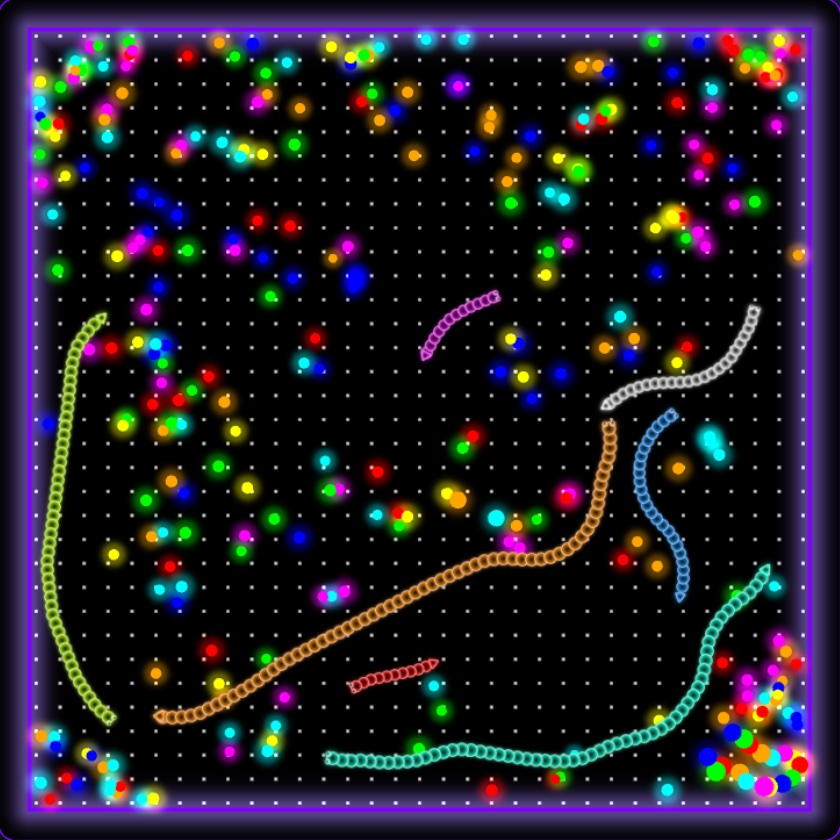
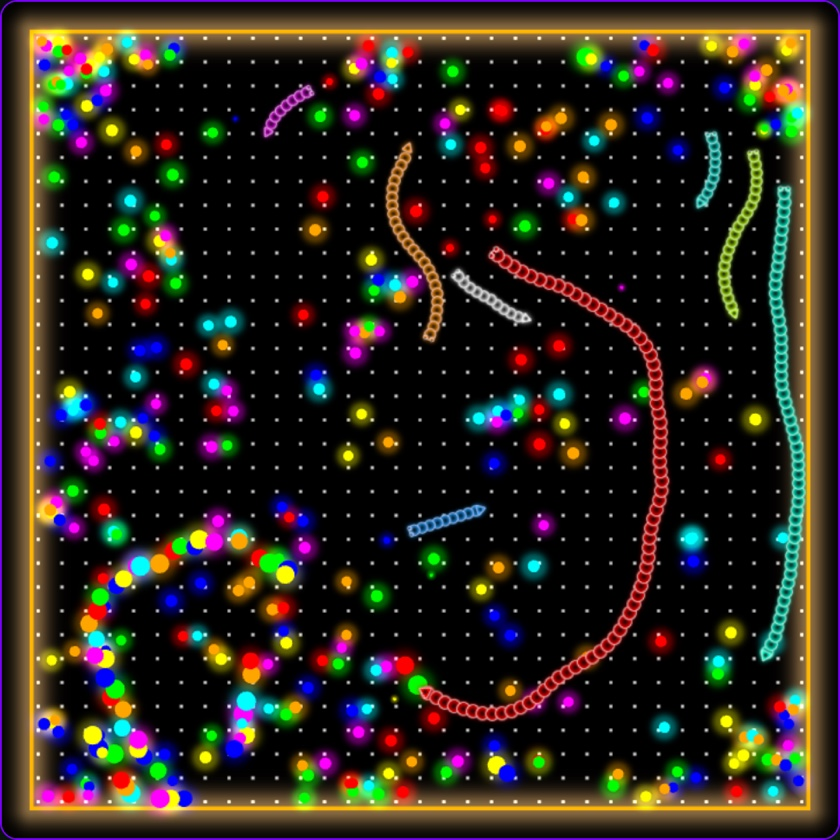
Site: post-release pass, npm/GitHub links, SEO, fresh og image (#31) (#97)
* Post-release: npm and GitHub links, SEO, fresh og image, accurate CLI/README text (#31)

- Landing: GitHub card is a link; npm link in the quick start and footer (NPM_URL in site.ts).
- og.jpg / og/arena.jpg regenerated from the live hero (current square arena renderer).
- Legal and replay pages get descriptions and canonical URLs; legal pages in sitemap.xml,
  checked by sitemap.test.ts; JSON-LD (WebSite + VideoGame) on the landing page.
- README: badges, arena image, npm link. CONTRIBUTING: cli is the only package on npm.
- packages/cli/README.md (npm page): badges, first deploy needs no --create, post-release wording.
- template/MAINTAINING.md: publishing section matches what init does now.
- Launch checklist and kit: tick verified steps, note what is still open.

* Launch checklist: repository settings from step 3 are done (#31)

* Launch checklist: Dependabot, secret scanning and squash-only are on (#31)

* Launch checklist: npm environment, tag ruleset and trusted publishing set up (#31)

* Review: "Working from a checkout" heading, untick npm trusted-publisher boxes, reflow (#31)

- docs/getting-started.md: the pre-launch heading becomes "Working from a checkout"; anchor
  updated in README, the landing page and its tests.
- checklist: Trusted Publisher and Publishing access stay unticked until cli-v0.1.1 confirms them.
- template/MAINTAINING.md: it is already skipped by init; packages/cli/README.md reflowed.

---------

diff --git a/apps/web/src/components/landing/Landing.tsx b/apps/web/src/components/landing/Landing.tsx
@@ -1,5 +1,5 @@
 import { Link } from "@tanstack/react-router";
-import { CLI_PUBLISHED, REPO } from "../../site";
+import { CLI_PUBLISHED, NPM_URL, REPO } from "../../site";
 import { GithubLink } from "../GithubLink";
 import { ArenaHero } from "./ArenaHero";
 import { ClaudePromptBlock, CopyButton, CopyPromptButton } from "./ClaudeStart";
@@ -90,7 +90,8 @@ export function Landing({ signedIn, onSignIn }: { signedIn: boolean; onSignIn: (
       <section className="landing-hero">
         <div className="landing-head">
           <p className="eyebrow">
-            Programming game · JS/TS · {REPO.public ? "open source, MIT" : "open source soon"}
+            Programming game · JS/TS ·{" "}
+            <span className="nowrap">{REPO.public ? "open source, MIT" : "open source soon"}</span>
           </p>
           <h1 className="title landing-title">
             Your snake bot vs. <span className="accent">everyone else's.</span>
@@ -108,7 +109,7 @@ export function Landing({ signedIn, onSignIn }: { signedIn: boolean; onSignIn: (
                 <Link
                   to="/docs/$slug"
                   params={{ slug: "getting-started" }}
-                  hash="before-the-packages-are-published"
+                  hash="working-from-a-checkout"
                   className="button ghost"
                 >
                   Build it by hand
@@ -139,7 +140,7 @@ export function Landing({ signedIn, onSignIn }: { signedIn: boolean; onSignIn: (
                   <Link
                     to="/docs/$slug"
                     params={{ slug: "getting-started" }}
-                    hash="before-the-packages-are-published"
+                    hash="working-from-a-checkout"
                   >
                     build the CLI from a checkout
                   </Link>{" "}
@@ -276,10 +277,16 @@ export function Landing({ signedIn, onSignIn }: { signedIn: boolean; onSignIn: (
           </div>
         ))}
         <p className="muted small">
-          Free. Needs Node.js 24+. Everything up to <code>test</code> runs on your machine with no
-          account; GitHub sign-in is only for <code>login</code> and <code>deploy</code>. The
-          starter bot already beats <code>easy</code>, the bar for entering the arena: your job is
-          to beat the rest.{" "}
+          Free. Needs Node.js 24+
+          {CLI_PUBLISHED && (
+            <>
+              {" "}
+              (the CLI is <a href={NPM_URL}>zerosnake on npm</a>)
+            </>
+          )}
+          . Everything up to <code>test</code> runs on your machine with no account; GitHub sign-in
+          is only for <code>login</code> and <code>deploy</code>. The starter bot already beats{" "}
+          <code>easy</code>, the bar for entering the arena: your job is to beat the rest.{" "}
           <Link to="/docs/$slug" params={{ slug: "getting-started" }}>
             Getting started
           </Link>{" "}
@@ -300,7 +307,7 @@ export function Landing({ signedIn, onSignIn }: { signedIn: boolean; onSignIn: (
                 <Link
                   to="/docs/$slug"
                   params={{ slug: "getting-started" }}
-                  hash="before-the-packages-are-published"
+                  hash="working-from-a-checkout"
                 >
                   Running the CLI from a checkout
                 </Link>
@@ -330,16 +337,24 @@ export function Landing({ signedIn, onSignIn }: { signedIn: boolean; onSignIn: (
             </Link>
           </li>
           <li>
-            <div className="panel link-card">
-              <strong>
-                <GithubLink />
-              </strong>
-              <span className="muted">
-                {REPO.public
-                  ? "Engine, sandbox, CLI, house bots and this site. MIT licensed."
-                  : "Engine, sandbox, CLI, house bots and this site. Open source at launch."}
-              </span>
-            </div>
+            {REPO.public ? (
+              <a href={REPO.url} className="panel link-card" rel="noreferrer">
+                <strong>GitHub</strong>
+                <span className="muted">
+                  Engine, sandbox, CLI, house bots and this site. MIT licensed: issues and pull
+                  requests welcome.
+                </span>
+              </a>
+            ) : (
+              <div className="panel link-card">
+                <strong>
+                  <GithubLink />
+                </strong>
+                <span className="muted">
+                  Engine, sandbox, CLI, house bots and this site. Open source at launch.
+                </span>
+              </div>
+            )}
           </li>
           <li>
             {signedIn ? (

diff --git a/apps/web/src/lib/meta.ts b/apps/web/src/lib/meta.ts
@@ -1,4 +1,6 @@
-import { SITE_URL } from "../site";
+import type { ComponentProps } from "react";
+import { LEGAL } from "../legal";
+import { CLI_PUBLISHED, NPM_URL, REPO, SITE_URL } from "../site";
 
 const SITE_NAME = "ZeroSnake Arena";
 
@@ -57,4 +59,38 @@ export function pageMeta(title: string, description?: string): Meta[] {
         ]
       : []),
   ];
+}
+
+/**
+ * The landing page's structured data (schema.org JSON-LD): the site and the game, free, made by
+ * the operator, with the repository and the npm package as its other homes once they are public.
+ * TanStack renders a `script:ld+json` meta entry as an escaped `<script type="application/ld+json">`,
+ * but the route `head` type only lists `<meta>` attributes, hence the cast.
+ */
+export function structuredData(): ComponentProps<"meta"> {
+  const sameAs = [...(REPO.public ? [REPO.url] : []), ...(CLI_PUBLISHED ? [NPM_URL] : [])];
+  const ld = {
+    "script:ld+json": {
+      "@context": "https://schema.org",
+      "@graph": [
+        { "@type": "WebSite", name: SITE_NAME, url: `${SITE_URL}/`, description: DESCRIPTION },
+        {
+          "@type": "VideoGame",
+          name: SITE_NAME,
+          url: `${SITE_URL}/`,
+          description: DESCRIPTION,
+          image: `${SITE_URL}/og.jpg`,
+          genre: "Programming game",
+          gamePlatform: "Web browser",
+          applicationCategory: "GameApplication",
+          operatingSystem: "Any",
+          isAccessibleForFree: true,
+          offers: { "@type": "Offer", price: "0", priceCurrency: "USD" },
+          publisher: { "@type": "Organization", name: LEGAL.operator, email: LEGAL.email },
+          ...(sameAs.length > 0 && { sameAs }),
+        },
+      ],
+    },
+  };
+  return ld as ComponentProps<"meta">;
 }

diff --git a/apps/web/src/sitemap.test.ts b/apps/web/src/sitemap.test.ts
@@ -1,0 +1,40 @@
+/**
+ * Keeps `public/sitemap.xml` in step with the site: every page with a fixed canonical URL and
+ * every doc page is listed, and nothing else is.
+ */
+import { readdirSync, readFileSync } from "node:fs";
+import { join } from "node:path";
+import { describe, expect, it } from "vitest";
+import { SITE_URL } from "./site";
+
+const SRC = import.meta.dirname;
+const sitemap = readFileSync(join(SRC, "../public/sitemap.xml"), "utf8");
+const listed = [...sitemap.matchAll(/<loc>([^<]+)<\/loc>/g)].map((m) => m[1] as string);
+
+/** Paths the routes declare with `canonical("/…")`, a literal: the public pages with no params. */
+function canonicalPaths(): string[] {
+  const routes = join(SRC, "routes");
+  return readdirSync(routes)
+    .filter((name) => name.endsWith(".tsx"))
+    .flatMap((name) => [
+      ...readFileSync(join(routes, name), "utf8").matchAll(/canonical\("(\/[^"]*)"\)/g),
+    ])
+    .map((m) => m[1] as string);
+}
+
+/** The doc pages, `/docs/<slug>` for each page in `docs/` but its index. */
+function docPaths(): string[] {
+  return readdirSync(join(SRC, "../../../docs"))
+    .filter((name) => name.endsWith(".md") && name !== "README.md")
+    .map((name) => `/docs/${name.slice(0, -3)}`);
+}
+
+describe("sitemap.xml", () => {
+  it("lists every public page and doc page, once, at the site's origin", () => {
+    const expected = [...new Set([...canonicalPaths(), ...docPaths()])].map(
+      (path) => new URL(path, SITE_URL).href,
+    );
+    expect(expected).toEqual(expect.arrayContaining([`${SITE_URL}/terms`, `${SITE_URL}/privacy`]));
+    expect([...listed].sort()).toEqual(expected.sort());
+  });
+});

diff --git a/apps/web/src/routes/replay.$id.tsx b/apps/web/src/routes/replay.$id.tsx
@@ -4,6 +4,7 @@ import { DEATH_CAUSES, formatDateTime, formatTicks } from "../components/format"
 import { Empty, PageError, PagePending } from "../components/PageState";
 import { ReplayViewer } from "../components/ReplayViewer";
 import { TracePanel } from "../components/TracePanel";
+import { canonical, pageMeta } from "../lib/meta";
 import { getReplayPage } from "../server/pages";
 import { getReplayTrace, type ReplayTrace } from "../server/traces";
 import { REPLAY_EXPIRED_MESSAGE } from "../shared/replay";
@@ -15,15 +16,21 @@ export const Route = createFileRoute("/replay/$id")({
     if (!life) throw notFound();
     return life;
   },
-  head: ({ loaderData }) => ({
-    meta: [
-      {
-        title: loaderData
-          ? `Replay: ${loaderData.botName} v${loaderData.version} by @${loaderData.author} · ZeroSnake Arena`
-          : "Replay · ZeroSnake Arena",
-      },
-    ],
-  }),
+  head: ({ loaderData, params }) => {
+    const { meta, links } = canonical(`/replay/${params.id}`);
+    return {
+      meta: [
+        ...(loaderData
+          ? pageMeta(
+              `Replay: ${loaderData.botName} v${loaderData.version} by @${loaderData.author}`,
+              `Watch ${loaderData.botName}, a snake bot by @${loaderData.author}, play one life in ZeroSnake Arena.`,
+            )
+          : pageMeta("Replay")),
+        ...meta,
+      ],
+      links,
+    };
+  },
   component: ReplayPage,
   pendingComponent: PagePending,
   errorComponent: PageError,

diff --git a/apps/web/src/components/landing/landing.test.tsx b/apps/web/src/components/landing/landing.test.tsx
@@ -83,7 +83,7 @@ describe("landing page", () => {
         claudePromptWorks()
           ? CLI_PUBLISHED
             ? "#by-hand"
-            : "/docs/getting-started#before-the-packages-are-published"
+            : "/docs/getting-started#working-from-a-checkout"
           : "#start",
       ]),
     );
@@ -162,9 +162,7 @@ describe.each([
     const html = await render();
     const links = hrefs(html);
     expect(links.some((href) => href.startsWith(REPO.url))).toBe(repo);
-    expect(links.includes("/docs/getting-started#before-the-packages-are-published")).toBe(
-      repo && !cli,
-    );
+    expect(links.includes("/docs/getting-started#working-from-a-checkout")).toBe(repo && !cli);
     expect(html.includes("Running the CLI from a checkout")).toBe(repo && !cli);
     expect(html.includes("from a checkout of the repository")).toBe(repo && !cli);
   });

diff --git a/apps/web/src/routes/__root.tsx b/apps/web/src/routes/__root.tsx
@@ -16,7 +16,7 @@ import { signInWithGithub } from "../lib/auth-client";
 import { siteMeta } from "../lib/meta";
 import { getViewer } from "../server/functions";
 import { getSiteConfig } from "../server/site-config";
-import { REPO } from "../site";
+import { CLI_PUBLISHED, NPM_URL, REPO } from "../site";
 import appCss from "../styles/app.css?url";
 
 export const Route = createRootRoute({
@@ -100,6 +100,7 @@ function RootLayout() {
             <Link to="/leaderboard">Leaderboard</Link>
             <Link to="/docs">Docs</Link>
             <GithubLink />
+            {CLI_PUBLISHED && <a href={NPM_URL}>npm</a>}
             <Link to="/terms">Terms</Link>
             <Link to="/acceptable-use">Acceptable Use</Link>
             <Link to="/privacy">Privacy</Link>

diff --git a/apps/web/src/routes/privacy.tsx b/apps/web/src/routes/privacy.tsx
@@ -1,10 +1,20 @@
 import { createFileRoute, Link } from "@tanstack/react-router";
 import { ContactEmail, LegalPage } from "../components/LegalPage";
 import { LEGAL, MINIMUM_AGE } from "../legal";
+import { canonical, pageMeta } from "../lib/meta";
 import { TRACE_RETENTION_DAYS } from "../shared";
 
 export const Route = createFileRoute("/privacy")({
-  head: () => ({ meta: [{ title: "Privacy Policy · ZeroSnake Arena" }] }),
+  head: () => ({
+    meta: [
+      ...pageMeta(
+        "Privacy Policy",
+        "What ZeroSnake Arena stores about you and your bots, why, for how long, and how to export or delete it.",
+      ),
+      ...canonical("/privacy").meta,
+    ],
+    links: canonical("/privacy").links,
+  }),
   component: Privacy,
 });
 

diff --git a/apps/web/src/routes/terms.tsx b/apps/web/src/routes/terms.tsx
@@ -1,9 +1,19 @@
 import { createFileRoute, Link } from "@tanstack/react-router";
 import { ContactEmail, LegalPage } from "../components/LegalPage";
 import { LEGAL, MINIMUM_AGE } from "../legal";
+import { canonical, pageMeta } from "../lib/meta";
 
 export const Route = createFileRoute("/terms")({
-  head: () => ({ meta: [{ title: "Terms of Service · ZeroSnake Arena" }] }),
+  head: () => ({
+    meta: [
+      ...pageMeta(
+        "Terms of Service",
+        "The terms for using ZeroSnake Arena: your account, the bots you deploy and their public source, fair play, and what we may do.",
+      ),
+      ...canonical("/terms").meta,
+    ],
+    links: canonical("/terms").links,
+  }),
   component: Terms,
 });
 

diff --git a/apps/web/src/routes/acceptable-use.tsx b/apps/web/src/routes/acceptable-use.tsx
@@ -1,8 +1,18 @@
 import { createFileRoute, Link } from "@tanstack/react-router";
 import { ContactEmail, LegalPage } from "../components/LegalPage";
+import { canonical, pageMeta } from "../lib/meta";
 
 export const Route = createFileRoute("/acceptable-use")({
-  head: () => ({ meta: [{ title: "Acceptable Use · ZeroSnake Arena" }] }),
+  head: () => ({
+    meta: [
+      ...pageMeta(
+        "Acceptable Use Policy",
+        "What bots and authors may and may not do on ZeroSnake Arena: the sandbox, fair play and abuse.",
+      ),
+      ...canonical("/acceptable-use").meta,
+    ],
+    links: canonical("/acceptable-use").links,
+  }),
   component: AcceptableUse,
 });
 

diff --git a/apps/web/src/components/landing/claudePrompt.ts b/apps/web/src/components/landing/claudePrompt.ts
@@ -7,7 +7,7 @@ import { CLI_PUBLISHED, REPO, SITE_URL } from "../../site";
  * the person, since it opens their browser and waits for them.
  *
  * While the CLI isn't on npm but the repository is public, it runs the CLI from a checkout
- * (`docs/getting-started.md`, "Before the packages are published"). While both are closed it reads
+ * (`docs/getting-started.md`, "Working from a checkout"). While both are closed it reads
  * as it will on launch day; the page shows it without a copy button then.
  */
 export function claudePrompt(

diff --git a/apps/web/src/routes/index.tsx b/apps/web/src/routes/index.tsx
@@ -1,10 +1,13 @@
 import { createFileRoute } from "@tanstack/react-router";
 import { Landing } from "../components/landing/Landing";
 import { signInWithGithub } from "../lib/auth-client";
-import { canonical } from "../lib/meta";
+import { canonical, structuredData } from "../lib/meta";
 
 export const Route = createFileRoute("/")({
-  head: () => canonical("/"),
+  head: () => {
+    const { meta, links } = canonical("/");
+    return { meta: [...meta, structuredData()], links };
+  },
   component: Home,
 });
 

diff --git a/apps/web/src/site.ts b/apps/web/src/site.ts
@@ -27,3 +27,6 @@ export const SHOWCASE_PATH = "/api/showcase";
  * The CLI's `DEFAULT_URL` must match (a test checks): published CLIs keep it, so it's permanent.
  */
 export const SITE_URL = "https://zerosnake.dev";
+
+/** The CLI's npm page (`packages/cli`, published as `zerosnake`). */
+export const NPM_URL = "https://www.npmjs.com/package/zerosnake";
